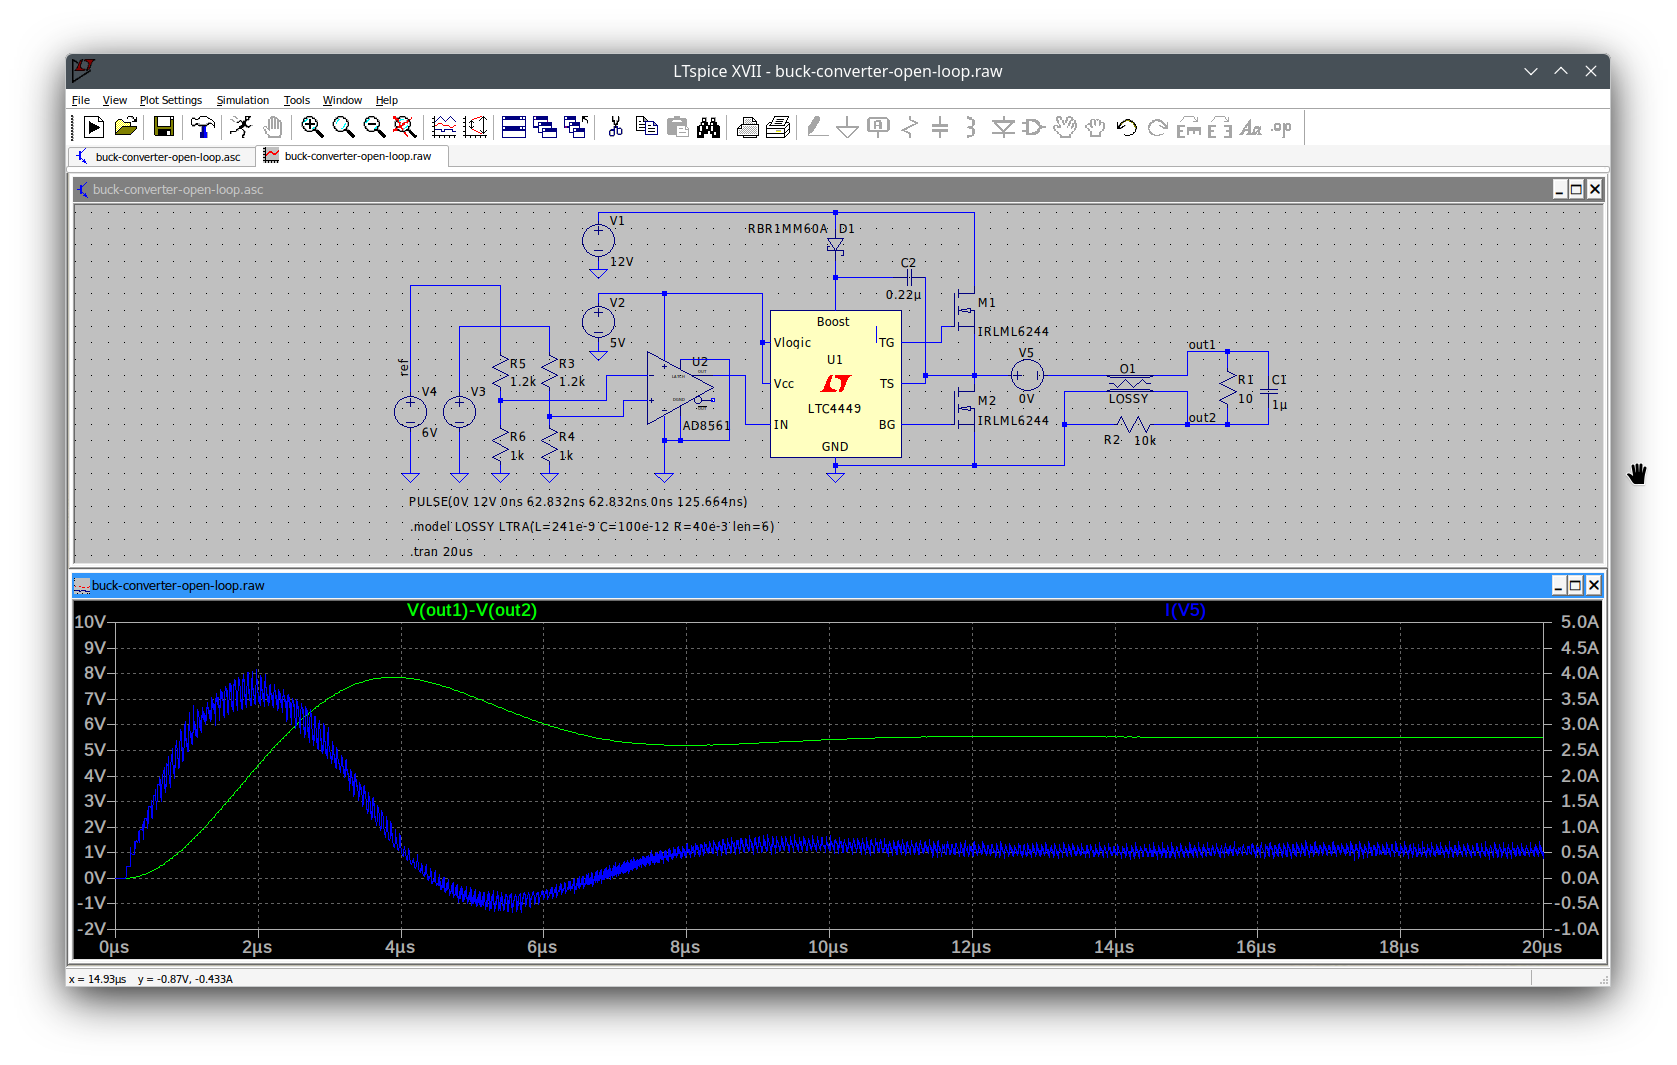
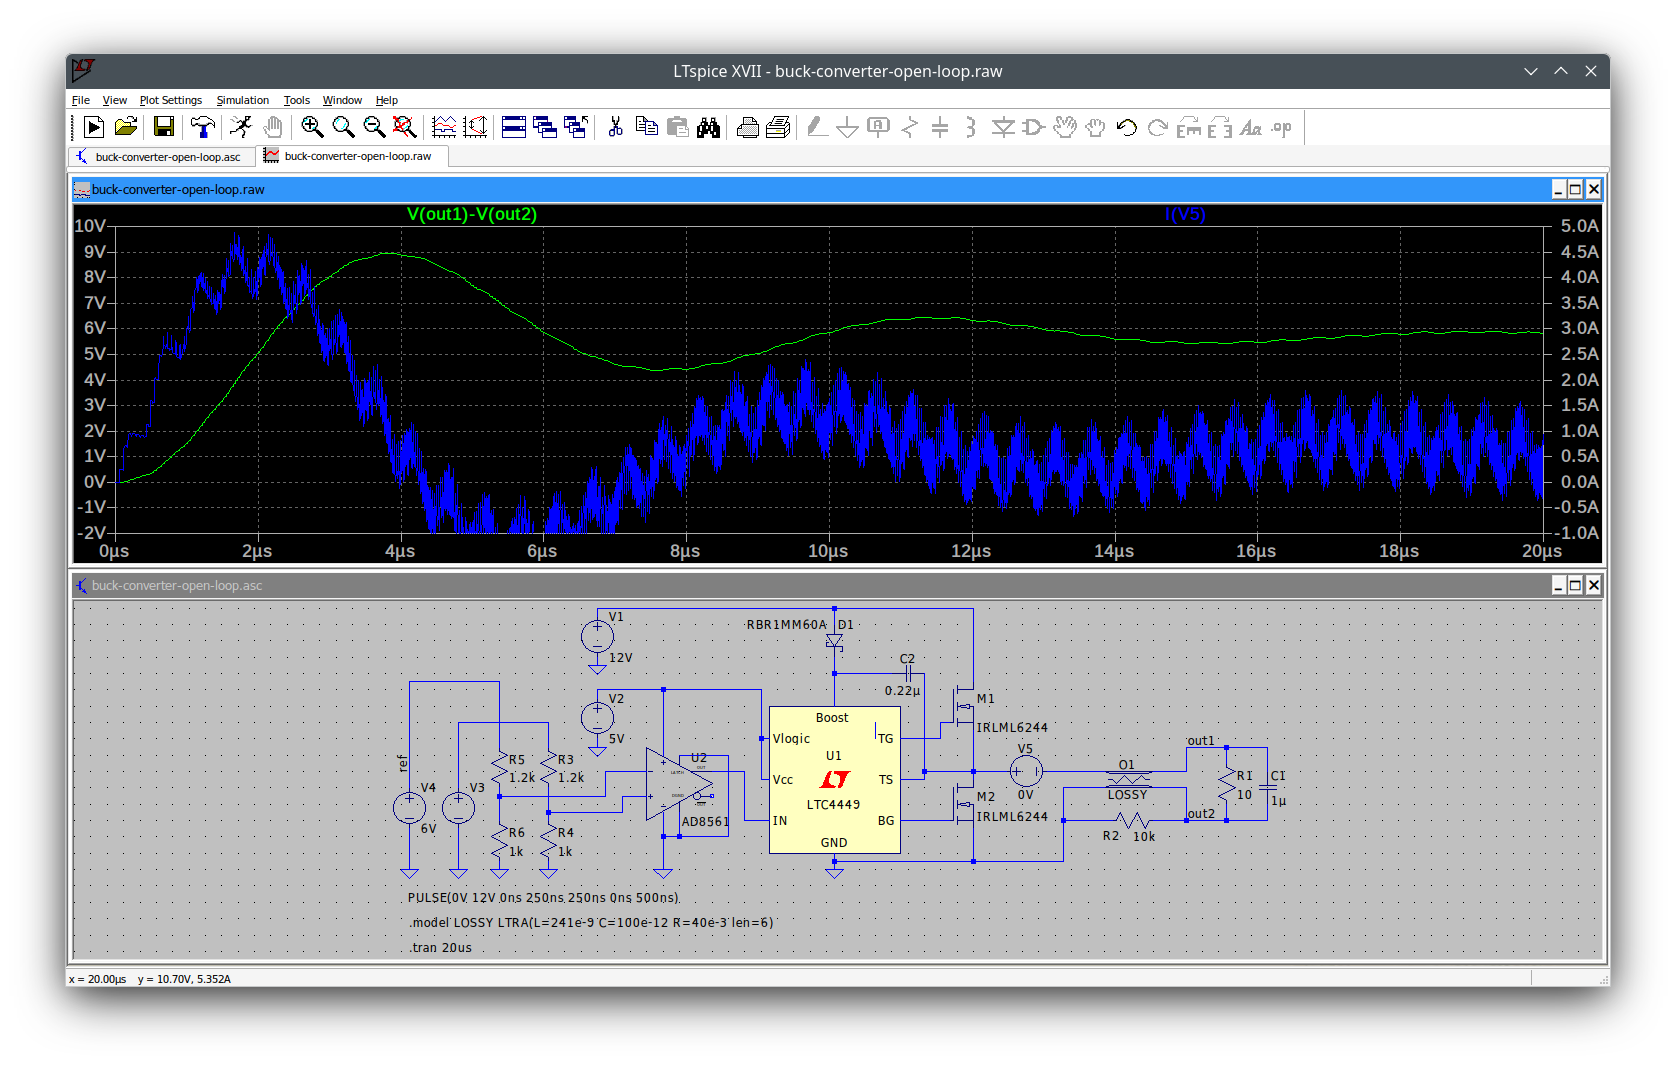
PWM frequency in open loop schematics corrected

diff --git a/data/README.md b/data/README.md
@@ -1,0 +1,19 @@
+# Data Files
+
+## Circuit simulation
+
+| file name | description |
+|-----------|-------------|
+| [buck-converter-open-loop1.txt](buck-converter-open-loop1.txt)| open loop with 6V reference voltage|
+| buck-converter-open-loop2.txt| open loop with 6.144V reference voltage|
+| buck-converter-closed-loop1.txt| closed loop with P controller|
+| buck-converter-closed-loop2.txt| closed loop with PI controller|
+
+These data files are ASCII files containing the results of transient simulations. The files have the same structure:
+
+| structure | contents |
+|-----------|----------|
+| row 1 | description of the columns |
+| column 1 | time in s|
+| column 2 | output voltage `V(out1)-V(out2)`|
+| column 3 | input current `I(V5)` |
